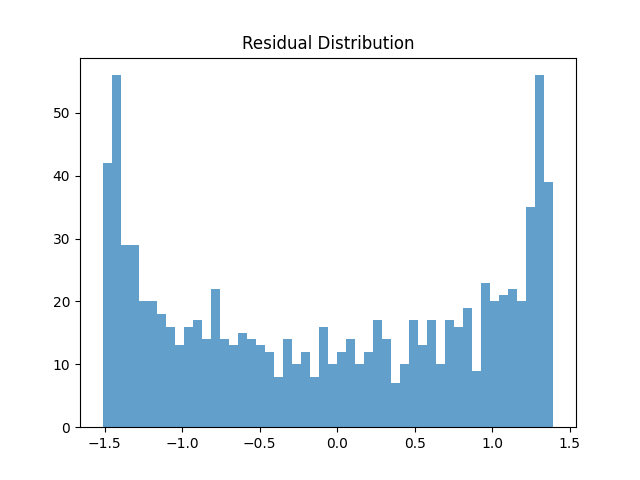
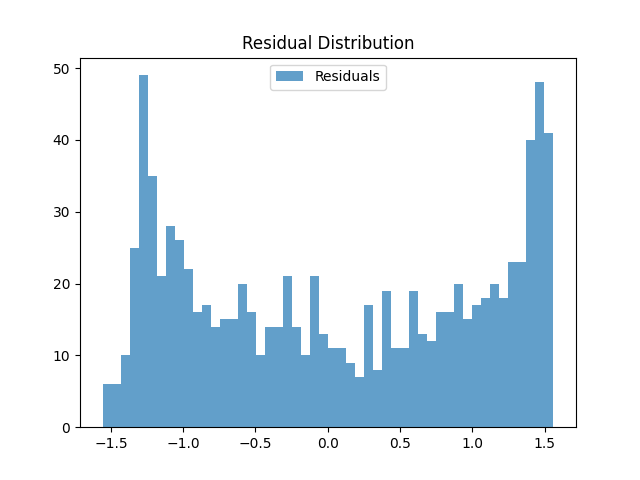
Progress

diff --git a/Stock-Return-Prediction-via-Deep-Learning/processor.py b/Stock-Return-Prediction-via-Deep-Learning/processor.py
@@ -246,7 +246,8 @@ class MetricsMonitor:
         residuals = self.y_true - self.y_pred
 
         plt.figure()
-        plt.hist(residuals, bins=50, alpha=0.7)
+        plt.hist(residuals, bins=50, alpha=0.7, label = 'Residuals')
+        plt.legend()
         plt.title("Residual Distribution")
         plt.savefig("Residuals.png")
         plt.close()
@@ -267,7 +268,8 @@ class MetricsMonitor:
                       for i in range(len(self.y_pred)-window)]
         
         plt.figure()
-        plt.plot(rolling_ic)
+        plt.plot(rolling_ic, label="Rolling IC")
+        plt.legend()
         plt.title(f"Rolling IC (window={window})")
         plt.xlabel("Index")
         plt.ylabel("IC")
